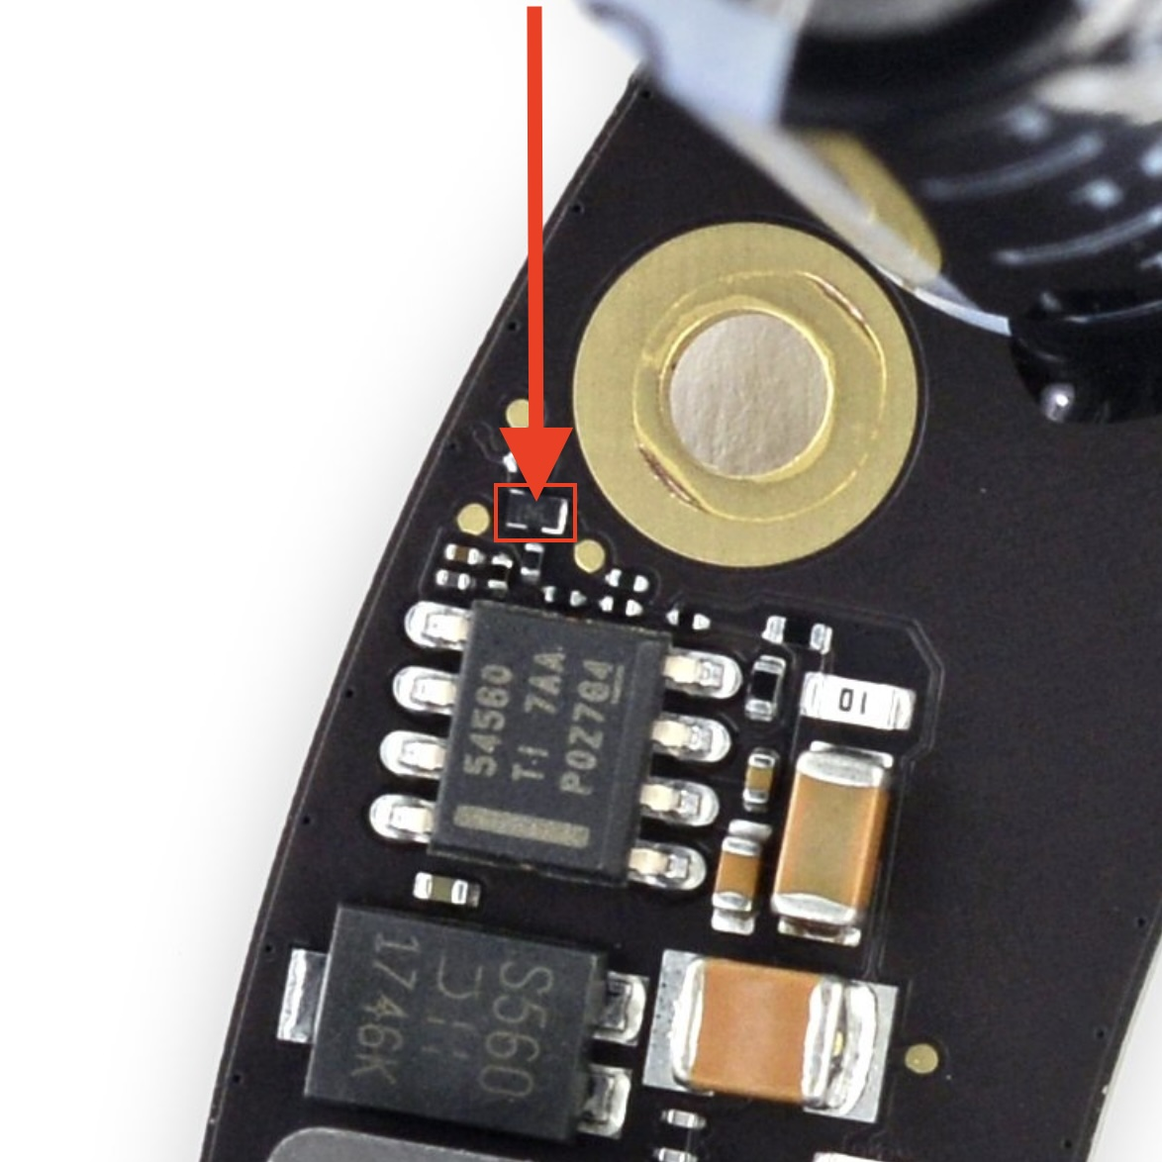
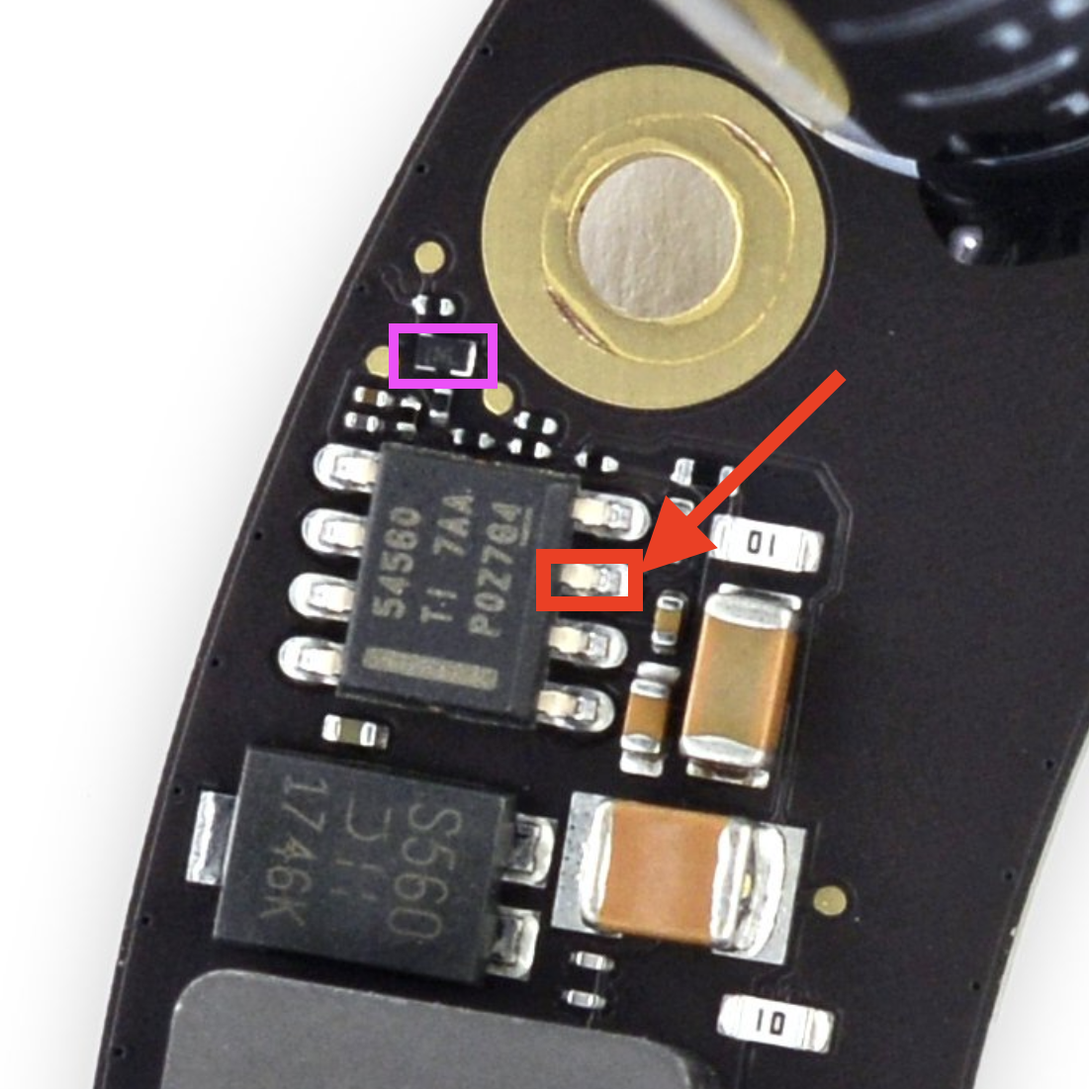
organize

diff --git a/homepods/index.html b/homepods/index.html
@@ -441,7 +441,7 @@
 					<p class="typography-intro-elevated transition-2 large-8 large-centered medium-10 small-12">All HomePod hardware repairs / maintenance includes replacing obviously worn / tired parts, like:
 						<br><br>DC filters tend to go bad every 5-15 years depending on use, and need routine replacement to prevent onset of bass issues and/or <a href="#commonissues">Death Farts</a>
 						<br><br>SB Diodes dated 1746k-1748k tend to fail and cause <a href="#commonissues">no power,</a> these ones are always replaced to permanently prevent the issue
-						<br><br>The foam subwoofer gasket can break down over time and become prone to failure, or a lazier bass response. These are replaced with a 98mm x 108mm x 5mm thick, 70 duro, nitrile gasket. This is a noticable upgrade resulting in a longer lasting, tighter bass response, even if it's replacing a perfect stock foam gasket
+						<br><br>The foam subwoofer gasket can break down over time and become prone to failure, or a lazier bass response. These are replaced with a new rubber nitrile gasket. This is a noticable upgrade resulting in a longer lasting, tighter bass response, even if it's replacing a normal working foam gasket
 					</p>
 				</div>
 			</div>
@@ -872,17 +872,18 @@
 				<div class="section-content" data-component-list="CopyEngagement CopyParallax">
 				<div class="row row-stereo">
 					<h2 class="typography-headline-super transition-1 large-10 large-centered medium-11 small-12">Known Issues</h2>
-					<p>The following are most issues seen and known ways I (or others if credited) have found to diagnose and repair them. You can right-click and open each image in a new tab for a larger view.</p>
-					<p>If you aren't able to confirm diagnosis of an issue, you should thoroughly inspect for any physical damage.<b> I strongly recommend you have a good spare homepod for testing</b> it will save you a lot of guessing nailing down which hardware component has failed.</p>
-					<p>If you've found a new fix for an issue and it's not listed here, please contact me so it can be added with your name on it!</p>
+					<p>A collection of what I've learned, found, and fixed over the years and thousands of homepod repairs. Check back as I am always adding new issues and fixes, and soon a new section for the 2nd Gen.</p>
+					<p>If you think you found a new issue or fix, you can <a href="mailto:nic@nicsfix.com"> let me know</a> and I'll put it here with your name on it!</p>
+					<p>The same symptoms do not always mean the same root cause, and physical damage can be tricky to spot. If you are going to attempt your own repairs, it would behoove you to have a spare set of HomePod parts to diagnose and troubleshoot.</p>
+					<p>For HomePods that have never been repaired or taken apart before, start with the Common Issues, then Less-Common.</p>
+					<p>If you diagnosed a known issue, made repair attempts, and now experience a new / different issue, it's probably your fault. Check the Common Mistakes section for some tips.</p>
+					<p>Most images have larger versions available if you right-click -> open them in a new tab.</p>
+
 					<!-- <p><b>Jump To:</b> <a href="#blinkblink">Flashing Volume & Boot Loops</a> | <a href="#physicaldamage">Physical Damage</a> | <a href="#nopower">No Power</a> | <a href="#popping">Death Farts & Popping</a> | <a href="#nobass">No Bass</a> | <a href="#haveyouseenthispart">Missing Parts</a> | <a href="#mesh">Coloring / Replacing the Mesh</a> | <a href="#lesscommon">More Issues</a> -->
 				</div>
 			</div>
-					<br><br>
-
-					<h4 class="transition-2 typography-callout large-10 large-centered medium-11 small-12">Common Issues</h4>
-					<p>Click each issue to expand it for details!</p>
-
+			<h2 class="typography-headline transition-1 large-10 large-centered medium-11 small-12">Common Issues</h2>
+					<p>Issues that can occur with untouched HomePods. Click each issue to expand it for details!</p>
 					<div id="blinkblink"></div>
 					<br>
 					<div class="issue">
@@ -907,7 +908,7 @@
 							</div>
 						</div>
 					</div>
-			</div>
+				</div>
 			<br>
 					<div id="nopower"></div>
 					<div id="nopowerdiode"></div>
@@ -976,16 +977,19 @@
 			</div>
 			<div id="lesscommon"></div>
 			<br><br>
-			<h4 class="transition-2 typography-callout large-10 large-centered medium-11 small-12">Less-Common Issues</h4>
-			<p>Click each issue to expand it for details!</p>
+			<h3 class="typography-headline transition-2 large-10 large-centered medium-11 small-12">Less-Common Issues</h3>
+			<p>More issues with unopened / untouched HomePods.</p>
+			<button class="collapsible"><h4 class="transition-2 typography-callout large-10 large-centered medium-11 small-12">Click to Expand the list of Less-Common Issues</h4></button>
+			<div class="content">
 					<div id="nobass"></div>
 					<div id="nobassbadwoofer"></div>
 					<br>
+
 					<div class="issue">
 							<button class="collapsible"><h4 class="transition-2 typography-callout large-10 large-centered medium-11 small-12">No Bass and/or Fast Clicking - Damaged or Dead Subwoofer Speaker</h4>
 </button>
 							<div class="content">
-					<p><b>Symptoms:</b> May include low, missing, or dirty sounding bass, clicking, or ticking sounds.<br><br><b>Diagnosis:</b> Two easy tests to tell if your subwoofer speaker is bad;<br><br>1: Gently push the speaker straight in, not too much, and release a few times; This should feel perfectly smooth, and make no sound, otherwise your speaker is almost certainly dead.<br><br>2: Inspect the condition of the voice coil through the hole in the side of the subwoofer speaker basket; A vibrant, uniform copper color is a sign of a healthy voice coil!<br><br>If your subwoofer is damaged, it is likely from <a href="#popping">DC Offset,</a> which should also be diagnosed per the Common Issue above.<br><br><b>Repair:</b> I'm not aware of any off the shelf replacement speakers, you will likely need to source one from another broken homepod. Be sure you diagnose and repair any <a href="#popping">DC Offset</a> before replacing your subwoofer.<br><br><b>Root Cause:</b> Most often a result of too much <a href="#popping">DC Offset!</a> Sometimes they can also just fail on their own eventually, but it is rare.</p>
+					<p><b>Symptoms:</b> May include low, missing, or dirty sounding bass, clicking, or ticking sounds.<br><br><b>Diagnosis:</b> Two easy tests to tell if your subwoofer speaker is bad;<br><br>1: Gently push the speaker straight in, not too much, and release a few times; This should feel perfectly smooth, and make no sound, otherwise your speaker is almost certainly dead.<br><br>2: Inspect the condition of the voice coil through the hole in the side of the subwoofer speaker basket; A vibrant, uniform copper color is a sign of a healthy voice coil!<br><br>If your subwoofer is damaged, it is likely from <a href="#popping">DC Offset / Death Farts,</a> which should also be diagnosed per the Common Issue above.<br><br><b>Repair:</b> I'm not aware of any off the shelf replacement speakers, you will likely need to source one from another broken homepod. Be sure you diagnose and repair any <a href="#popping">DC Offset</a> before replacing your subwoofer.<br><br><b>Root Cause:</b> Most often a result of too much <a href="#popping">DC Offset!</a> Sometimes they can also just fail on their own eventually, but it is rare.</p>
 					<p>
 					<div class="column icon-container large-centered large-8 medium-10 small-12">
 						<div class="image-wrapper">
@@ -1049,7 +1053,7 @@ DMG1029SVQ-7. See <a href="https://www.mouser.com/datasheet/2/115/DIODS20272_1-2
 </button>
 						<div class="content">
 
-					<p><b>Symptoms:</b> It's rare for the amp IC to be the source of any problems, unless it is obviously damaged, you should first diagnose for other issues described above.<br><br><b>Diagnosis:</b> Amp IC is located on the bottom side of the amp board. The amp IC may or may not have obvious visual damage and there is no great way to diagnose without replacing it. HomePods will power on with the amp IC removed! Do not be fooled by the PIN1 identifier mark in the bottom left corner of the chip.<br><br><b>Repair:</b> The OEM amp IC (part number 98-0431) is available on Aliexpress for a limited time. Part number IR4312M is available from multiple component sellers and is also a suitable alternative, but is being discontinued.<br><br><b>Root Cause:</b> The amp IC can fail on it's own, or if it's subject to too much DC voltage as a result of failing capacitors. More info on that in the <a href="#popping">DC Offset</a> Common Issue above!</p>
+					<p><b>Symptoms:</b> It's rare for the amp IC to be the source of any problems, unless it is obviously damaged, you should first diagnose for other issues described above.<br><br><b>Diagnosis:</b> Amp IC is located on the bottom side of the amp board. The amp IC may or may not have obvious visual damage. Image coming soon that shows which pads to check for a short to ground, indicating a dead amp chip. HomePods will power on with the amp IC removed! Do not be fooled by the PIN1 identifier mark in the bottom left corner of the chip.<br><br><b>Repair:</b> The OEM amp IC (part number 98-0431) is available on Aliexpress for a limited time. Part number IR4312M is available from multiple component sellers and is also a suitable alternative, but is being discontinued.<br><br><b>Root Cause:</b> The amp IC can fail on it's own, or if it's subject to too much DC voltage as a result of failing capacitors. More info on that in the <a href="#popping">DC Offset</a> Common Issue above!</p>
 					<p>
 					<div class="column icon-container large-centered large-8 medium-10 small-12">
 					<div class="image-wrapper">
@@ -1087,60 +1091,7 @@ DMG1029SVQ-7. See <a href="https://www.mouser.com/datasheet/2/115/DIODS20272_1-2
 						</div>
 					</div>
 				</div>
-					<div id="goofball"></div>
-					<br>
-					<div class="issue">
-							<button class="collapsible"><h4 class="transition-2 typography-callout large-10 large-centered medium-11 small-12">Improper Ribbon Installation After Repairs</h4></button>
-							<div class="content">
-				<p>Damaged or improperly reinstalled ribbon cables can cause no sound, no power, boot loops, and more.<br><br><b>Damage:</b> Thoroughly inspect the entire ribbon cable for any tears, cracks, or other damage. This cable is commonly damaged from rough handling when disconnecting the logic board, where the end of the cable connecting to the logic board will crack / tear. Another common mistake is accidentally damaging the ribbon cable while trying to pry the top basket off. <br><br><b>Improper Installation:</b> The most common mistake made when reassembling your HomePod is an incorrect installation of the main ribbon cable. On the amplifier board connector, the locked position will actually look open, and unlocked actually looks closed! Verify you have properly locked the cable in by pressing the locking clip down, and that the white line on the cable is level with the top of the connector! Improper installation may lead to permanent damage resulting in no sound or power. I've even done this once myself and lost both the amp and logic board's sound, and have yet to figure out how to repair it.<br><br></p>
-				<p>
-				<div class="column icon-container large-centered large-8 medium-10 small-12">
-				<div class="image-wrapper">
-						<figure class="image-icons transition-1"><img src="media/torncable.jpg" height="265" alt="torn ribbon cable" loading="lazy"></figure>
-						<p>Torn Cable From Pulling on Logic Board</p>
-					</div>
-					<div class="image-wrapper">
-						<figure class="image-icons transition-1"><img src="media/stabbedcable.jpg" height="265" alt="damaged ribbon cable" loading="lazy"></figure>
-						<p>Damaged Cable from Prying Top Basket</p>
-					</div>
-					<div class="image-wrapper">
-						<figure class="image-icons transition-1"><img src="media/incorrect1.jpg" height="265" alt="crooked ribbon cable" loading="lazy"></figure>
-						<p>Unlocked, Crooked Cable</p>
-					</div>
-											<div class="image-wrapper">
-						<figure class="image-icons transition-1"><img src="media/correct1.jpg" height="265" alt="correctly installed cable" loading="lazy"></figure>
-						<p>Locked, Level Cable</p>
-					</div>
-											<div class="image-wrapper">
-						<figure class="image-icons transition-1"><img src="media/incorrect2.jpg" height="265" alt="incorrect cable install" loading="lazy"></figure>
-						<p>Don't Do This!</p>
-					</div>
-											<div class="image-wrapper">
-						<figure class="image-icons transition-1"><img src="media/correct2.jpg" height="265" alt="correct cable install" loading="lazy"></figure>
-						<p>Do This!</p>
-					</div>
-					</div>
-				</div>
-			</div>
-						<div id="haveyouseenthispart"></div>
-						<br>
-						<div class="issue">
-								<button class="collapsible"><h4 class="transition-2 typography-callout large-10 large-centered medium-11 small-12">I did my own repairs and lost ___ or found this broken part! What is it?</h4></button>
-								<div class="content">
-					<p>If you are attempting your own repairs and need help identifying a particular part that is damaged / lost, feel free to ask!</p>
-					<p>The most commonly lost part is pictured below. You NEED it for the HomePod to power on! It is a 0.1uF Size 0402 Capacitor.</p>
-					<div class="column icon-container large-centered large-8 medium-10 small-12">
-					<div class="image-wrapper">
-							<figure class="image-icons transition-1"><img src="media/diodecap.png" height="265" alt="missing capacitor" loading="lazy"></figure>
-							<p>0.1uF Size 0402 Capacitor</p>
-						</div>
-						<div class="image-wrapper">
-								<figure class="image-icons transition-1"><img src="media/missinglittlecap.png" height="265" alt="missing capacitor" loading="lazy"></figure>
-								<p>Goofy Ahh Workaround</p>
-							</div>
-						</div>
-					</div>
-				</div>
+
 
 			<!-- <p><b>Jump To:</b> <a href="#nopowerfuse">No Power</a> | <a href="#nopowerdisplay">Flashing Volume Buttons / Boot Loops</a> | <a href="#nosound">No sound</a> | <a href="#popping2">Loud Pop & Restart</a> -->
 		<div id="nopowerfuse"></div>
@@ -1186,7 +1137,8 @@ DMG1029SVQ-7. See <a href="https://www.mouser.com/datasheet/2/115/DIODS20272_1-2
 		<div class="issue">
 				<button class="collapsible"><h4 class="transition-2 typography-callout large-10 large-centered medium-11 small-12">No Power - Blown TPS and Shorted Component</h4></button>
 				<div class="content">
-		<p><b>Symptoms:</b> No power, no lights, and no response. Power draw at the outlet may be a few Watts. SB Diode will NOT show shorted! TPS54560 will usually show obvious damage.<br><br><b>Diagnosis:</b> Check for shorst pictured below.<br><br><b>Repair:</b> Replace any shorted components! Avneesh is credited with helping me find the cause of this one  <a href="https://www.youtube.com/live/Je3FnzLNufg" target="_blank">during a Youtube Livestream.</a> I do not know the part # / specs yet, I had to pull one off a parts board.<br><br><b>Root Cause:</b> Unknown.</p>
+		<p><b>Symptoms:</b> No power, no lights, and no response. Power draw at the outlet may be a few Watts. <br><br><b>Diagnosis:</b> Check for short to ground on the pin pictured below in red, on the TPS. Confirm short on TPS is gone with component in purple removed. <br><br><b>Repair:</b> Replace shorted mosfet with "DMN2300UFB4-7B".
+ Avneesh is credited with helping me find the cause of this one  <a href="https://www.youtube.com/live/Je3FnzLNufg" target="_blank">during a Youtube Livestream,.</a> and "nighthawk_94191" for finding the part number.<br><br><b>Root Cause:</b> Unknown.</p>
 		<p>
 		<div class="column icon-container large-centered large-8 medium-10 small-12">
 				<div class="image-wrapper">
@@ -1215,36 +1167,12 @@ DMG1029SVQ-7. See <a href="https://www.mouser.com/datasheet/2/115/DIODS20272_1-2
 		</div>
 	</div>
 </div>
-		<div id="nopowermicboard"></div>
-		<br>
-		<div class="issue">
-		<button class="collapsible"><h4 class="transition-2 typography-callout large-10 large-centered medium-11 small-12">Boot Loops or Blinking / Flickering Volume Buttons - Damaged Mic Board</h4>
-</button>
-		<div class="content">
-		<p><b>Symptoms:</b> Similar to the symptoms from a damaged display. A damaged mic board can also obviously cause issues with voice commands not working.<br><br><b>Diagnosis:</b> Thoroughly inspect the mic board for any damage, especially around the chip pictured below. <br><br><b>Repair:</b> Replace mic board. Unsure what part # the chip pictured below is...<br><br><b>Root Cause:</b> Usually damage from not being careful with your tools while working on your pod.</p>
-		<p>
-		<div class="column icon-container large-centered large-8 medium-10 small-12">
-			<div class="image-wrapper">
-				<figure class="image-icons transition-1"><img src="media/goodmicboard.jpg" height="270" alt="good mic board" loading="lazy"></figure>
-				<p>What the mic board should look like</p>
-			</div>
-			<div class="image-wrapper">
-				<figure class="image-icons transition-1"><img src="media/badmicboard.jpg" height="270" alt="damaged mic board missing chip" loading="lazy"></figure>
-				<p>That one .gif of michael scott yelling "NO"</p>
-			</div>
-			<div class="image-wrapper">
-				<figure class="image-icons transition-1"><img src="media/micchipupclose.jpg" height="270" alt="chip up close" loading="lazy"></figure>
-				<p>Unidentified Chip</p>
-			</div>
-		</div>
-	</div>
-</div>
 		<div id="nosound"></div>
 		<br>
 		<div class="issue">
 		<button class="collapsible"><h4 class="transition-2 typography-callout large-10 large-centered medium-11 small-12">No Sound - Dead STM32L Controller IC</h4></button>
 		<div class="content">
-		<p><b>Symptoms:</b> Powers on, but there's no sound from any of the speakers.<br><br><b>Diagnosis:</b> If you did your own repairs and suddenly no longer have sound, suspect improper ribbon cable installation, accidental damage, or a short / debris on the amp. On one occasion I found the main amp controller had failed. The letters on the "STM32L051C8T7" chip were unevenly worn, note however this isn't always a reliable way to judge condition.<br><br><b>Repair:</b> "STM32L051C8T7" is available from AliExpress, but we're currently unsure if it needs to be reprogrammed! It's available <a href="https://www.aliexpress.com/i/3256802635297773.html?gatewayAdapt=4itemAdapt">here.</a> Currently on backorder from mouser and digikey.<br><br><b>Root Cause:</b> Unknown. Pretty rare for the controller to die anyways.</p>
+		<p><b>Symptoms:</b> Powers on, but there's no sound from any of the speakers.<br><br><b>Diagnosis:</b> If you did your own repairs and suddenly no longer have sound, suspect improper ribbon cable installation, accidental damage, or a short / debris on the amp. On rare occasions, I found the main amp controller had failed. The letters on the "STM32L051C8T7" chip were unevenly worn, note however this isn't always a reliable way to judge condition. I'll add a better way to diagnose this soon. <br><br><b>Repair:</b> "STM32L051C8T7" is available from AliExpress, but we're currently unsure if it needs to be reprogrammed! It's available <a href="https://www.aliexpress.com/i/3256802635297773.html?gatewayAdapt=4itemAdapt">here.</a> Currently on backorder from mouser and digikey.<br><br><b>Root Cause:</b> Unknown. Pretty rare for the controller to die anyways.</p>
 		<p>
 		<div class="column icon-container large-centered large-8 medium-10 small-12">
 		<div class="image-wrapper">
@@ -1274,6 +1202,92 @@ DMG1029SVQ-7. See <a href="https://www.mouser.com/datasheet/2/115/DIODS20272_1-2
 			</div>
 		</div>
 	</div>
+</div>
+</div>
+
+<br><br>
+<h3 class="typography-headline transition-2 large-10 large-centered medium-11 small-12">Common Mistakes</h3>
+<p>Stuff to look for if you are having issues after attempting your own repairs.</p>
+<button class="collapsible"><h4 class="transition-2 typography-callout large-10 large-centered medium-11 small-12">Click to Expand the list of Common Mistakes</h4></button>
+<div class="content">
+<div id="goofball"></div>
+<br>
+<div class="issue">
+		<button class="collapsible"><h4 class="transition-2 typography-callout large-10 large-centered medium-11 small-12">Improper Ribbon Install / Damage After Repairs</h4></button>
+		<div class="content">
+<p>Damaged or improperly reinstalled ribbon cables can cause no sound, no power, boot loops, and more.<br><br><b>Damage:</b> Thoroughly inspect the entire ribbon cable for any tears, cracks, or other damage. This cable is commonly damaged from rough handling when disconnecting the logic board, where the end of the cable connecting to the logic board will crack / tear. Another common mistake is accidentally damaging the ribbon cable while trying to pry the top basket off. <br><br><b>Improper Installation:</b> The most common mistake made when reassembling your HomePod is an incorrect installation of the main ribbon cable. On the amplifier board connector, the locked position will actually look open, and unlocked actually looks closed! Verify you have properly locked the cable in by pressing the locking clip down, and that the white line on the cable is level with the top of the connector! Improper installation may lead to permanent damage resulting in no sound or power. I've even done this once myself and lost both the amp and logic board's sound, and have yet to figure out how to repair it.<br><br></p>
+<p>
+<div class="column icon-container large-centered large-8 medium-10 small-12">
+<div class="image-wrapper">
+	<figure class="image-icons transition-1"><img src="media/torncable.jpg" height="265" alt="torn ribbon cable" loading="lazy"></figure>
+	<p>Torn Cable From Pulling on Logic Board</p>
+</div>
+<div class="image-wrapper">
+	<figure class="image-icons transition-1"><img src="media/stabbedcable.jpg" height="265" alt="damaged ribbon cable" loading="lazy"></figure>
+	<p>Damaged Cable from Prying Top Basket</p>
+</div>
+<div class="image-wrapper">
+	<figure class="image-icons transition-1"><img src="media/incorrect1.jpg" height="265" alt="crooked ribbon cable" loading="lazy"></figure>
+	<p>Unlocked, Crooked Cable</p>
+</div>
+						<div class="image-wrapper">
+	<figure class="image-icons transition-1"><img src="media/correct1.jpg" height="265" alt="correctly installed cable" loading="lazy"></figure>
+	<p>Locked, Level Cable</p>
+</div>
+						<div class="image-wrapper">
+	<figure class="image-icons transition-1"><img src="media/incorrect2.jpg" height="265" alt="incorrect cable install" loading="lazy"></figure>
+	<p>Don't Do This!</p>
+</div>
+						<div class="image-wrapper">
+	<figure class="image-icons transition-1"><img src="media/correct2.jpg" height="265" alt="correct cable install" loading="lazy"></figure>
+	<p>Do This!</p>
+</div>
+</div>
+</div>
+</div>
+<div id="nopowermicboard"></div>
+<br>
+<div class="issue">
+<button class="collapsible"><h4 class="transition-2 typography-callout large-10 large-centered medium-11 small-12">Boot Loops or Blinking / Flickering Volume Buttons - Damaged Mic Board</h4>
+</button>
+<div class="content">
+<p><b>Symptoms:</b> Various symptoms like flickering volume buttons, power cycling, not turning on etc...<br><br><b>Diagnosis:</b> Thoroughly inspect the mic board for any damage, especially around the chip pictured below. <br><br><b>Repair:</b> Replace mic board. Unsure what part # the chip pictured below is...<br><br><b>Root Cause:</b> Discord user "nighthawk_94191" has identified the likely cause of this coming from people over-tightening / rotating the black plastic ring (that sits just above the mic board) too far.</p>
+<p>
+<div class="column icon-container large-centered large-8 medium-10 small-12">
+	<div class="image-wrapper">
+		<figure class="image-icons transition-1"><img src="media/goodmicboard.jpg" height="270" alt="good mic board" loading="lazy"></figure>
+		<p>What the mic board should look like</p>
+	</div>
+	<div class="image-wrapper">
+		<figure class="image-icons transition-1"><img src="media/badmicboard.jpg" height="270" alt="damaged mic board missing chip" loading="lazy"></figure>
+		<p>That one .gif of michael scott yelling "NO"</p>
+	</div>
+	<div class="image-wrapper">
+		<figure class="image-icons transition-1"><img src="media/micchipupclose.jpg" height="270" alt="chip up close" loading="lazy"></figure>
+		<p>Unidentified Chip</p>
+	</div>
+</div>
+</div>
+</div>
+	<div id="haveyouseenthispart"></div>
+	<br>
+	<div class="issue">
+			<button class="collapsible"><h4 class="transition-2 typography-callout large-10 large-centered medium-11 small-12">I did my own repairs and lost ___ or found this broken part! What is it?</h4></button>
+			<div class="content">
+<p>If you are attempting your own repairs and need help identifying a particular part that is damaged / lost, feel free to ask!</p>
+<p>The most commonly lost part is pictured below. If you are having issues replacing it, you can try the pictured workaround with trace wires and a physically larger capacitor. You NEED it for the HomePod to power on! It is a 0.1uF Size 0402 Capacitor. Anything rated 10v or better will work..</p>
+<div class="column icon-container large-centered large-8 medium-10 small-12">
+<div class="image-wrapper">
+		<figure class="image-icons transition-1"><img src="media/diodecap.png" height="265" alt="missing capacitor" loading="lazy"></figure>
+		<p>0.1uF Size 0402 Capacitor</p>
+	</div>
+	<div class="image-wrapper">
+			<figure class="image-icons transition-1"><img src="media/missinglittlecap.png" height="265" alt="missing capacitor" loading="lazy"></figure>
+			<p>Goofy Ahh Workaround</p>
+		</div>
+	</div>
+</div>
+</div>
 </div>
 <div id="soundtest"></div>
 <br><br><br><br>
@@ -1571,6 +1585,7 @@ DMG1029SVQ-7. See <a href="https://www.mouser.com/datasheet/2/115/DIODS20272_1-2
 				</div>
 				</div>
 			</div>
+
 			<br>
 			<br><p class="typography-intro-elevated transition-2">The Verge Interview: <a target="_blank" href="https://www.theverge.com/2023/2/15/23600844/apple-homepod-repair-logitech-ifixit-interview-vergecast-podcast">https://www.theverge.com/2023/2/15/23600844/</a>
 				<br>PodFeet Podcast Interview: <a target="_blank" href="https://www.podfeet.com/blog/2022/12/ccatp-753/">https://www.podfeet.com/blog/2022/12/ccatp-753/</a>
